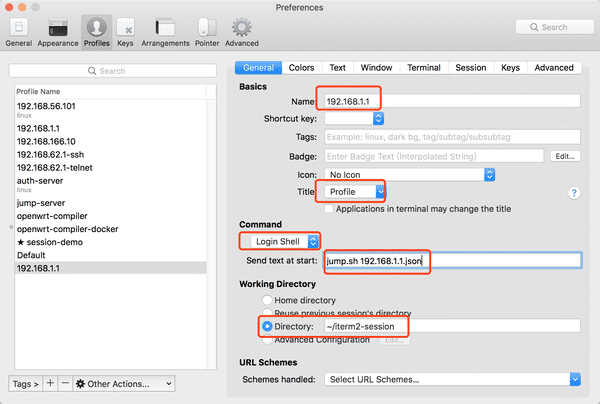
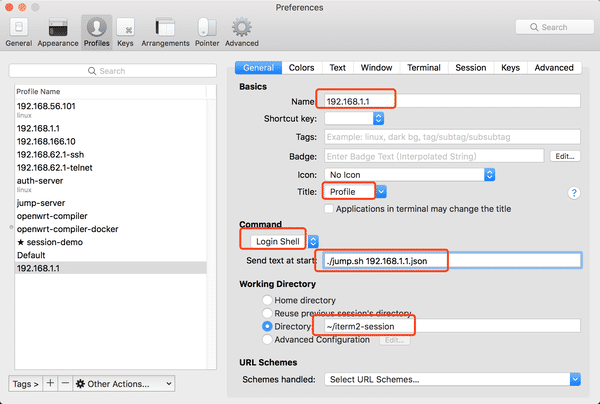
read

diff --git a/README.md b/README.md
@@ -71,6 +71,10 @@ iterm2 -> Preferences -> Profiles -> 选中Default -> Other Actions... -> Duplic
 
 此时，一个最简的session就完成了，在 iterm2 中，快捷键 COMMAND+O，然后双击 `192.168.1.1` 就会去自动登陆 
 
+* Command `Login Shell`, 意思是创建一个独立的终端
+* Directory `~/iterm2-session`，意思是终端默认进入的目录。这个很重要，设定了工作目录。
+* send text as start `./jump.sh 192.168.1.1.json`, 意思是执行这个命令，不要忽视 `./jump.sh` 指定了当前目录。
+
 # 传输文件支持
 
 通过堡垒机跳转的机器，无法使用 scp 进行传输。或者其他限制，比如只有 telnet，也是不能传文件。
